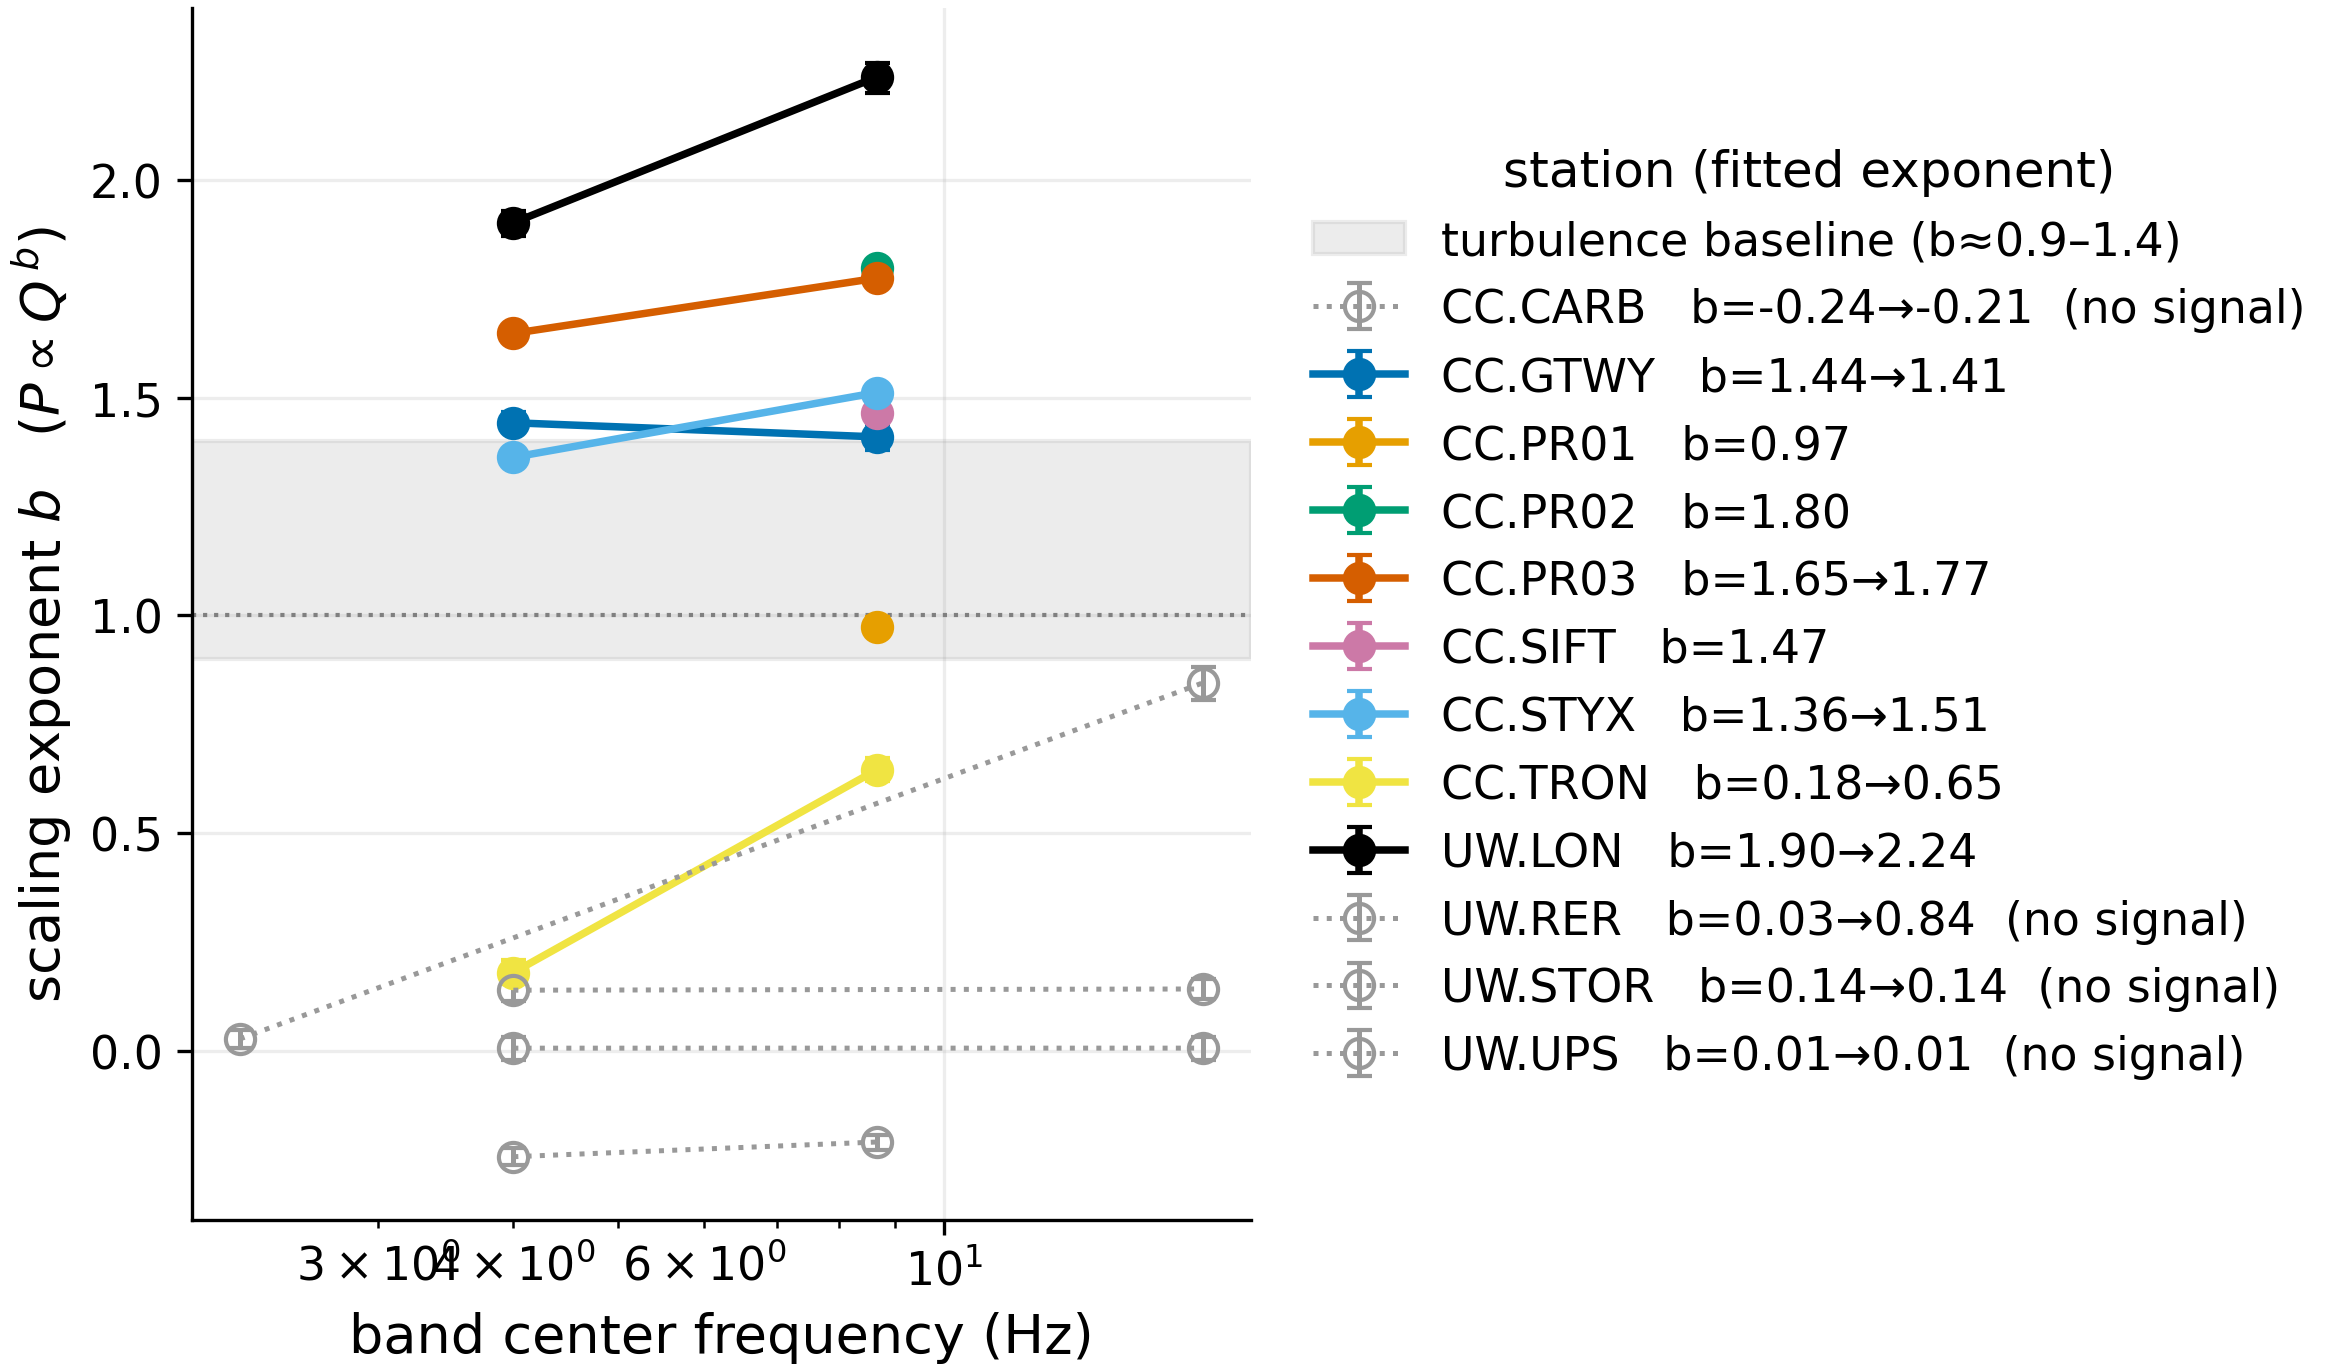
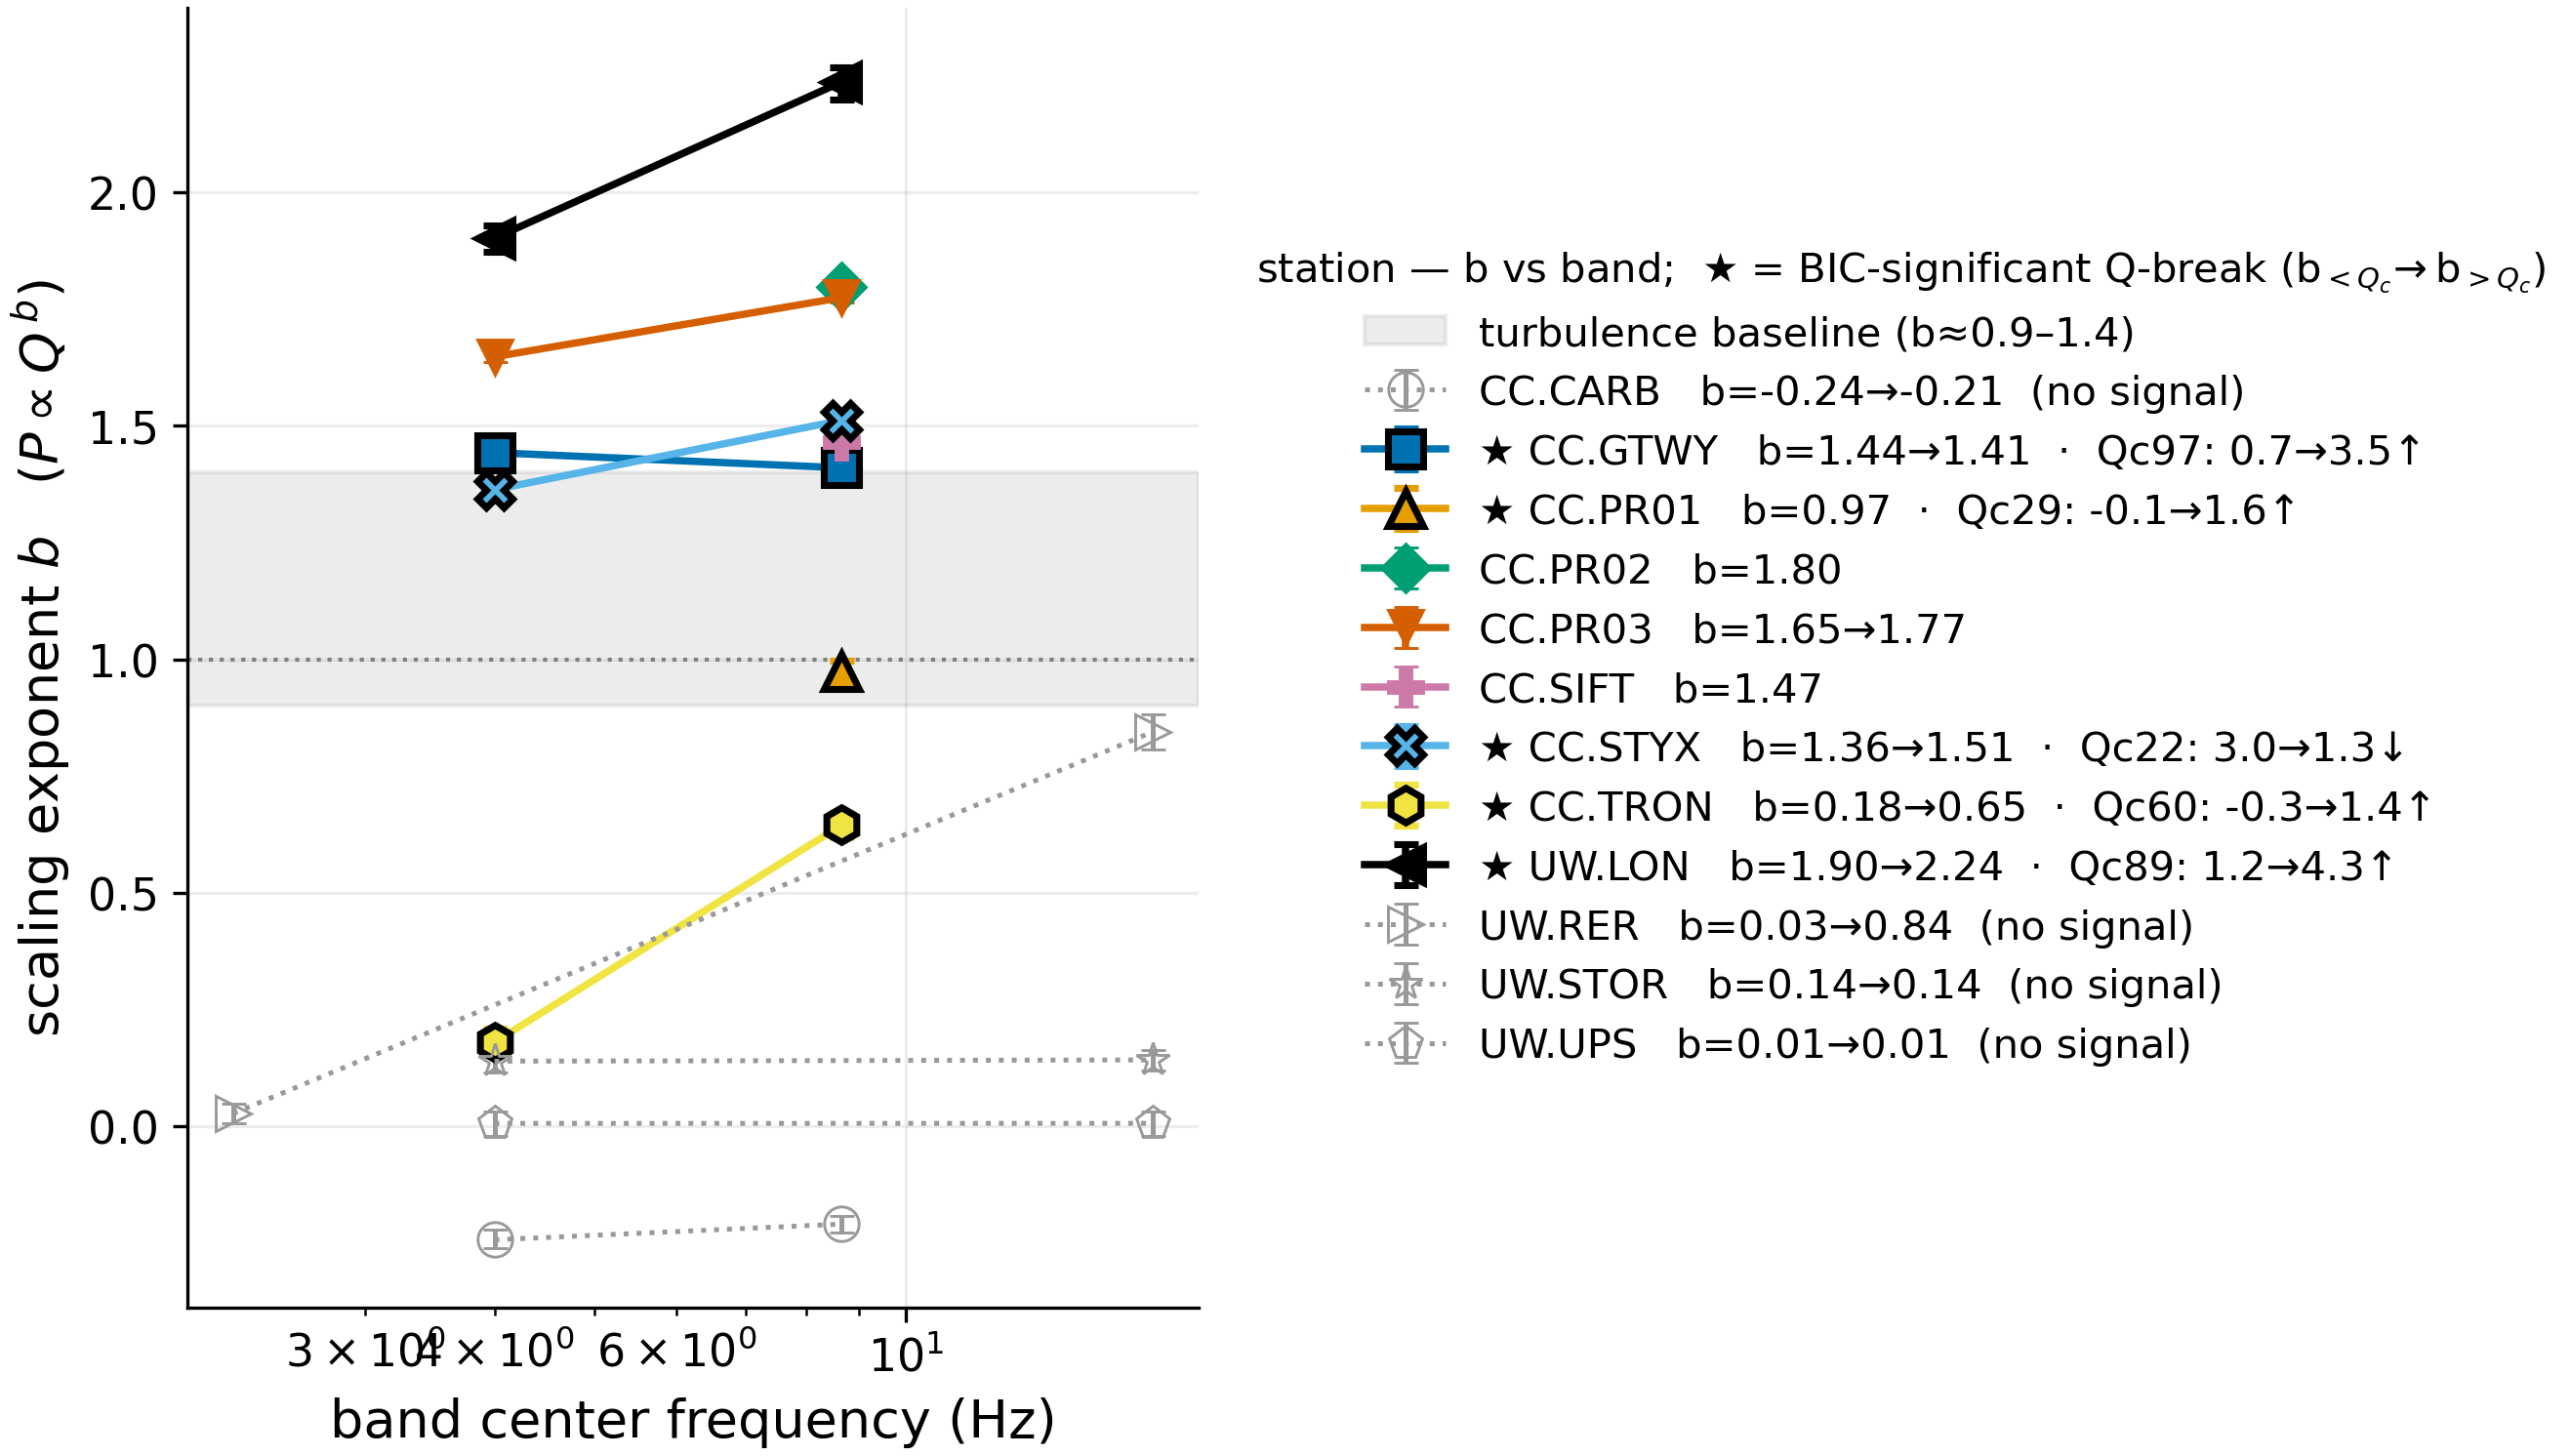
Fig2 break markers + BIC/AIC threshold test + region-parameterized SAR; refresh stale figs
Fig2 (scaling exponent):
- Distinct marker SYMBOL per station (identifiable without relying on colour).
- Star + black edge the stations with a statistically significant P–Q break, and
  report both exponents (b below / above Qc) in the legend.

Threshold (15): add an AIC/BIC model comparison (single line vs continuous
broken-stick) with an effective sample size from the lag-1 residual
autocorrelation (n_eff = n(1−ρ)/(1+ρ)) — raw n≈6500 of autocorrelated 10-min
samples would make every break "significant". With ρ≈0.90–0.99 (n_eff 50–310),
5 stations show a significant break: PR01/GTWY/TRON/UW.LON steepen, STYX flattens;
PR03/PR02/SIFT/CARB are clean single power laws.

SAR workflow 19: parameterize by --region (puyallup | nisqually) so the same
optical/SAR braided-reach analysis can run on the Nisqually reach near UW.LON
(steepest b=2.24, Qc-break 1.2→4.3). Region registry holds AOI/stations/NHD
key/anchor; the relative-to-anchor December series runs only for the co-located
Puyallup cluster.

Figure audit: regenerated every figure from current data — fig1 map (new
station_status), fig11/fig13 spectra, figS traffic (FDSN waveforms), fig2/fig14
(breaks). All 21 figures now reflect the NWIS/flood-window pipeline (the Nisqually
SAR figure awaits a transient Planetary Computer API recovery).

diff --git a/workflows/19_braid_optical_change.py b/workflows/19_braid_optical_change.py
@@ -82,13 +82,35 @@ AOI = (-122.070, 46.895, -122.025, 46.935)
 UTM = "EPSG:32610"          # UTM 10N — metres, for distance/area maths
 RES = 10                    # m, target pixel (S2 native green/NIR resolution)
 
-# Co-located Puyallup source cluster (lon, lat, b, r)  [config/station_status.json]
-STATIONS = {
-    "CC.PR03": (-122.0327, 46.9034, 1.66, 0.94),   # 500-sps anchor, on-channel
-    "CC.PR01": (-122.0376, 46.9101, 1.19, 0.88),   # the anomaly: flat b, low r
-    "CC.PR02": (-122.0487, 46.9183, 1.67, 0.94),
+# Region registry. Each: AOI (minlon,minlat,maxlon,maxlat), station cluster
+# (lon, lat, b, r), NHD river key, on-channel anchor, and whether the stations
+# are co-located closely enough for the relative-to-anchor December series.
+REGIONS = {
+    "puyallup": dict(
+        aoi=(-122.070, 46.895, -122.025, 46.935),
+        stations={
+            "CC.PR03": (-122.0327, 46.9034, 1.77, 0.97),   # on-channel anchor
+            "CC.PR01": (-122.0376, 46.9101, 0.97, 0.78),   # braidplain anomaly
+            "CC.PR02": (-122.0487, 46.9183, 1.80, 0.96),
+        },
+        nhd="Puyallup", anchor="CC.PR03", co_located=True, figtag="",
+        json="braid_optical_change.json"),
+    # UW.LON reach only (tight AOI; the full LON+GTWY box is too large for one
+    # STAC load). UW.LON has the steepest scaling (b=2.24) and the most extreme
+    # Q-break (1.2->4.3) — the prime candidate for a braided/anabranching reach.
+    "nisqually": dict(
+        aoi=(-121.828, 46.738, -121.792, 46.764),
+        stations={
+            "UW.LON": (-121.8096, 46.7506, 2.24, 0.91),    # steepest b; Qc-break 1.2->4.3
+        },
+        nhd="Nisqually", anchor="UW.LON", co_located=False, figtag="_nisqually",
+        json="braid_optical_change_nisqually.json"),
 }
-BRAID_SEED = (-122.0562, 46.9269)   # Google-Earth braid point the user supplied
+# Module-level state (overwritten by select_region() in main()); defaults = Puyallup.
+AOI = REGIONS["puyallup"]["aoi"]
+STATIONS = REGIONS["puyallup"]["stations"]
+NHD_KEY, ANCHOR, CO_LOCATED = "Puyallup", "CC.PR03", True
+FIGTAG, JSON_NAME = "", "braid_optical_change.json"
 
 EPOCHS = {
     "pre":  "2025-11-01/2025-11-30",   # before the Dec 2025 AR floods
@@ -170,7 +192,7 @@ def channel_corridor(grid: xr.DataArray, buffer_m: float = CORRIDOR_M):
     import rasterio.warp
     from shapely.geometry import LineString
     from shapely.ops import unary_union
-    paths = json.loads((CFGDIR / "nhd_rivers.json").read_text())["Puyallup"]
+    paths = json.loads((CFGDIR / "nhd_rivers.json").read_text())[NHD_KEY]
     lines = []
     for path in paths:
         lon = [p[0] for p in path]
@@ -291,7 +313,7 @@ def december_series(corridor, spx):
     NOTE: the Dec 9–12 epoch captures peak inundation (transient flood water,
     not just the active braid) — flagged in the figure, not removed.
     """
-    ANCHOR = "CC.PR03"   # on-channel, geometrically stable reference
+    other = next(n for n in STATIONS if n != ANCHOR)   # a non-anchor station for the print
     print("\nDecember SAR-led channel-migration series (Sentinel-1 min-composite):")
     labels, flood, Wt = [], [], {n: [] for n in STATIONS}
     for lab, dr, is_peak in DEC_EPOCHS:
@@ -309,7 +331,7 @@ def december_series(corridor, spx):
         for n in STATIONS:
             Wt[n].append(W[n])
         print(f"   {lab:20s} S1={n1:2d}  channel px={int(ch.values.sum()):4d}  "
-              f"W(PR01)/W(PR03)={W['CC.PR01']/W[ANCHOR]:.2f}")
+              f"W({other.split('.')[1]})/W({ANCHOR.split('.')[1]})={W[other]/W[ANCHOR]:.2f}")
     if len(labels) < 3:
         print("   too few usable SAR epochs — skipping December series figure")
         return None
@@ -345,13 +367,29 @@ def december_series(corridor, spx):
                   r"$[\,W_i/W_{\mathrm{PR03}}\,]$, normalised to Nov", fontsize=11.5)
     ax.tick_params(labelsize=11)
     ax.legend(title="station", fontsize=10, title_fontsize=10, loc="upper left")
-    out = FIGDIR / "fig20_braid_timeseries.png"
+    out = FIGDIR / f"fig20_braid_timeseries{FIGTAG}.png"
     fig.savefig(out, dpi=150)
     print(f"wrote {out}")
     return {"labels": labels, "anchor": ANCHOR, "rel_to_anchor_norm": rel}
 
 
+def select_region(name: str):
+    """Set module-level AOI/STATIONS/NHD_KEY/ANCHOR/etc. for the chosen region."""
+    global AOI, STATIONS, NHD_KEY, ANCHOR, CO_LOCATED, FIGTAG, JSON_NAME
+    reg = REGIONS[name]
+    AOI = reg["aoi"]; STATIONS = reg["stations"]; NHD_KEY = reg["nhd"]
+    ANCHOR = reg["anchor"]; CO_LOCATED = reg["co_located"]
+    FIGTAG = reg["figtag"]; JSON_NAME = reg["json"]
+    print(f"region={name}  AOI={AOI}  stations={list(STATIONS)}  nhd={NHD_KEY}")
+
+
 def main() -> int:
+    import argparse
+    ap = argparse.ArgumentParser(description=__doc__)
+    ap.add_argument("--region", default="puyallup", choices=list(REGIONS))
+    args = ap.parse_args()
+    select_region(args.region)
+
     FIGDIR.mkdir(parents=True, exist_ok=True)
     print(f"r_e (5–15 Hz band centre {FC:.2f} Hz, VC={VC:.0f} m/s, Q={Q_PNW:.0f}) = {R_E:.0f} m")
 
@@ -416,10 +454,11 @@ def main() -> int:
               f"{rec['dr_near_m']:7.0f} {rec['W_ratio_post_pre']:12.3f} "
               f"{rec['pred_dlog10P']:+12.3f}   (b={b}, r={r})")
 
-    dec = december_series(corridor, spx)
+    # Relative-to-anchor December series only for a co-located cluster (Puyallup).
+    dec = december_series(corridor, spx) if CO_LOCATED else None
 
     out = {
-        "aoi": AOI, "epochs": EPOCHS, "crs": UTM, "res_m": RES,
+        "region": NHD_KEY, "aoi": AOI, "epochs": EPOCHS, "crs": UTM, "res_m": RES,
         "december_series_W": dec,
         "r_e_m": R_E, "fc_hz": FC, "vc_ms": VC, "Q_pnw": Q_PNW,
         "thresholds": {"mndwi_water": MNDWI_WATER, "s1_vv_db_water": S1_VV_DB_WATER,
@@ -428,8 +467,8 @@ def main() -> int:
         "scenes": {ep: {"s2": data[ep]["n2"], "s1": data[ep]["n1"]} for ep in EPOCHS},
         "stations": geom,
     }
-    (CFGDIR / "braid_optical_change.json").write_text(json.dumps(out, indent=2))
-    print(f"\nwrote {CFGDIR/'braid_optical_change.json'}")
+    (CFGDIR / JSON_NAME).write_text(json.dumps(out, indent=2))
+    print(f"\nwrote {CFGDIR/JSON_NAME}")
 
     make_figure(data, geom, spx)
     return 0
@@ -492,7 +531,7 @@ def make_figure(data, geom, spx):
                + f"$r_e$={R_E:.0f} m; bars = MNDWI-threshold ensemble (median, range)",
                transform=ax[2].transAxes, ha="center", fontsize=8, color="0.3")
 
-    out = FIGDIR / "fig19_braid_change.png"
+    out = FIGDIR / f"fig19_braid_change{FIGTAG}.png"
     fig.savefig(out, dpi=150, bbox_inches="tight")
     print(f"wrote {out}")
 

diff --git a/workflows/15_threshold.py b/workflows/15_threshold.py
@@ -83,18 +83,43 @@ def main() -> int:
         x0, b1, b2, a, sse, sse_lin = broken_stick(x, y)
         Qc = 10 ** x0
         improve = 1 - sse / sse_lin                          # variance reduction vs single line
-        steepens = b2 > b1 + 0.15 and improve > 0.02
+        # Model comparison: single line (k=2: a,b) vs continuous broken-stick
+        # (k=4: a,b1,Δslope,x0). Consecutive 10-min flood samples are strongly
+        # autocorrelated, so the raw n hugely overstates independent information
+        # and would make every break "significant". Use an effective sample size
+        # from the lag-1 autocorrelation of the (time-ordered) broken-stick
+        # residuals: n_eff = n·(1−ρ)/(1+ρ). ΔBIC>10 then = very strong evidence
+        # for two segments (Kass & Raftery 1995).
+        nx = len(x)
+        yhat = a + b1 * x + (b2 - b1) * np.maximum(0.0, x - x0)   # x,y are time-ordered
+        resid = y - yhat
+        rho = float(np.corrcoef(resid[:-1], resid[1:])[0, 1]) if nx > 3 else 0.0
+        rho = min(max(rho, 0.0), 0.999)
+        n_eff = max(5.0, nx * (1.0 - rho) / (1.0 + rho))
+        bic_lin = n_eff * np.log(sse_lin / nx) + 2 * np.log(n_eff)
+        bic_bs = n_eff * np.log(sse / nx) + 4 * np.log(n_eff)
+        aic_lin = n_eff * np.log(sse_lin / nx) + 2 * 2
+        aic_bs = n_eff * np.log(sse / nx) + 2 * 4
+        dBIC = bic_lin - bic_bs
+        dAIC = aic_lin - aic_bs
+        significant = bool(dBIC > 10 and abs(b2 - b1) > 0.3)
+        direction = "steepening" if b2 > b1 + 0.3 else ("flattening" if b2 < b1 - 0.3 else "none")
+        steepens = significant and direction == "steepening"
         rows.append(dict(station=sid, Qc_cms=round(float(Qc), 1), b_below=round(b1, 2),
                          b_above=round(b2, 2), dslope=round(b2 - b1, 2),
-                         var_reduction=round(improve, 3), onset=bool(steepens)))
+                         var_reduction=round(improve, 3), dBIC=round(float(dBIC), 1),
+                         dAIC=round(float(dAIC), 1), n_eff=round(float(n_eff), 0),
+                         rho=round(float(rho), 3), significant_break=significant,
+                         direction=direction, onset=bool(steepens)))
         ax.scatter(x, y, s=3, alpha=0.25, color="0.5")
         xs = np.linspace(x.min(), x.max(), 100)
         yhat = a + b1 * xs + (b2 - b1) * np.maximum(0, xs - x0)
         ax.plot(xs, yhat, "r-", lw=1.8)
-        if steepens:
+        if significant:
             ax.axvline(x0, color="#0072B2", ls="--", lw=1.2)
             ax.text(x0, ax.get_ylim()[1], f" Qc≈{Qc:.0f}", color="#0072B2", fontsize=7, va="top")
-        ax.set_title(f"{sid}  b:{b1:.2f}→{b2:.2f}" + ("" if steepens else "  (no break)"), fontsize=8)
+        tag = f"  ΔBIC={dBIC:.0f}" if significant else "  (no break)"
+        ax.set_title(f"{sid}  b:{b1:.2f}→{b2:.2f}{tag}", fontsize=8)
     for ax in axes.ravel()[n:]:
         ax.set_visible(False)
     fig.supxlabel(r"$\log_{10} Q$ (m³ s⁻¹)"); fig.supylabel(r"$\log_{10} P$ (5–15 Hz)")

diff --git a/workflows/02_make_figures.py b/workflows/02_make_figures.py
@@ -106,16 +106,26 @@ def fig_scaling_exponent(items: list[dict]) -> pd.DataFrame:
     if df.empty:
         return df
 
-    fig, ax = plt.subplots(figsize=(7.8, 4.6))
+    fig, ax = plt.subplots(figsize=(8.8, 5.0))
     ax.axhspan(*WATER_BASELINE, color="0.6", alpha=0.18,
                label=f"turbulence baseline (b≈{WATER_BASELINE[0]}–{WATER_BASELINE[1]})")
     ax.axhline(1.0, color="0.5", ls=":", lw=1)
     # Exclude the 0.5-2 Hz oceanic-microseism band: it is not river turbulence
     # (it can be anti-correlated with discharge) and distorts the b(f) trend.
-    # station signal status: none-signal stations drawn hollow/grey (documented, not hidden)
+    # none-signal stations drawn hollow/grey (documented, not hidden); a distinct
+    # marker SYMBOL per station so they are identifiable without relying on colour.
     sp = ROOT / "config" / "station_status.json"
     status = {s["station"]: s["status"] for s in json.loads(sp.read_text())} if sp.exists() else {}
+    # BIC/AIC-significant P–Q breaks from the threshold analysis (fig14): for these
+    # stations a two-exponent fit (b below / above Qc) beats a single line, so we
+    # report both exponents and star the station here.
+    tp = ROOT / "config" / "threshold_qc.json"
+    breaks = ({r["station"]: r for r in json.loads(tp.read_text()) if r.get("significant_break")}
+              if tp.exists() else {})
+    MARKERS = ["o", "s", "^", "D", "v", "P", "X", "h", "<", ">", "*", "p", "d"]
     plot_df = df[df["fc"] >= 1.5]
+    markmap = {s: MARKERS[i % len(MARKERS)]
+               for i, s in enumerate(sorted(plot_df["station"].unique()))}
     for sta, g in plot_df.groupby("station"):
         g = g.sort_values("fc")
         yerr = np.vstack([g["b"] - g["b_lo"], g["b_hi"] - g["b"]])
@@ -123,20 +133,25 @@ def fig_scaling_exponent(items: list[dict]) -> pd.DataFrame:
         nosig = status.get(sta) in ("none", "control")
         fit_lbl = (f"b={bvals[0]:.2f}" if len(bvals) == 1
                    else "b=" + "→".join(f"{v:.2f}" for v in bvals))
+        brk = breaks.get(sta)
+        if brk:
+            arr = "↑" if brk["direction"] == "steepening" else "↓"
+            fit_lbl += f"  ·  Qc{brk['Qc_cms']:.0f}: {brk['b_below']:.1f}→{brk['b_above']:.1f}{arr}"
         tag = "  (no signal)" if nosig else ""
-        ax.errorbar(g["fc"], g["b"], yerr=yerr, marker="o", ms=7, capsize=3,
+        ax.errorbar(g["fc"], g["b"], yerr=yerr, marker=markmap[sta], ms=8.5, capsize=3,
                     lw=1.2 if nosig else 1.8, ls=":" if nosig else "-",
                     color="0.6" if nosig else _color(sta),
                     markerfacecolor="none" if nosig else _color(sta),
-                    label=f"{sta}   {fit_lbl}{tag}")
+                    markeredgecolor="k" if brk else ("0.6" if nosig else _color(sta)),
+                    markeredgewidth=1.7 if brk else 0.7,
+                    label=f"{'★ ' if brk else ''}{sta}   {fit_lbl}{tag}")
     ax.set_xscale("log")
     ax.tick_params(labelsize=11)
     ax.set_xlabel("band center frequency (Hz)", fontsize=13)
     ax.set_ylabel(r"scaling exponent $b$   ($P \propto Q^{\,b}$)", fontsize=13)
-    # (no figure title — the manuscript caption describes the figure)
-    # legend outside, to the right — shows each station's fitted exponent
     ax.legend(loc="center left", bbox_to_anchor=(1.02, 0.5), frameon=False,
-              title="station (fitted exponent)", title_fontsize=12, fontsize=11)
+              title=r"station — b vs band;  ★ = BIC-significant Q-break (b$_{<Q_c}\!\to$b$_{>Q_c}$)",
+              title_fontsize=10, fontsize=10)
     fig.savefig(FIGDIR / "fig2_scaling_exponent.png")
     plt.close(fig)
     return df